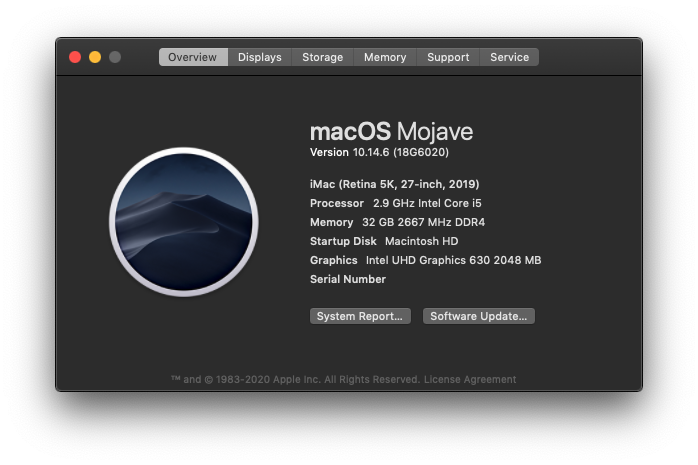
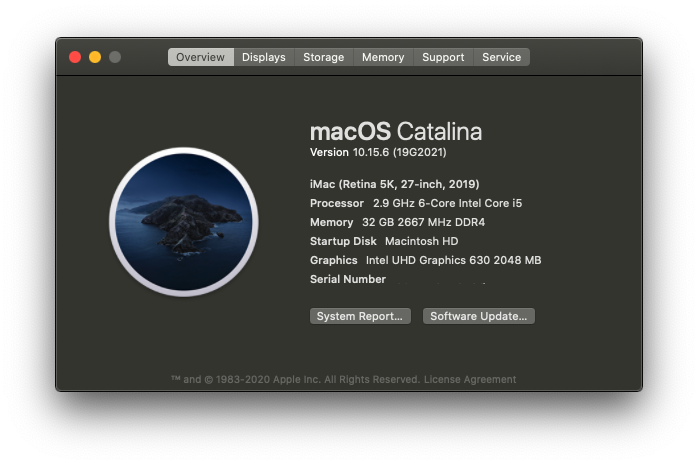
MISC - Upgrade to Catalina

diff --git a/README.md b/README.md
@@ -4,7 +4,7 @@
 
 ### SPECS
 
-+ OS: macOS Mojave 10.14.6 18G6020 x86_64 / (SMBIOS: iMac19,1) - **Support Catalina**
++ OS: macOS Catalina 10.15.6 19G2021 x86_64 / (SMBIOS: iMac19,1)
 + OpenCore: 0.6
 + CPU: Intel i5-9400 (6c6t) @ 2.90GHz
 + GPU: Intel UHD Graphics 630
@@ -34,13 +34,7 @@ My Wi-Fi card is BCM94360CS2, you need to by a NGFF card like this one. TOSHIBA 
 + Super IO Configuration -> Serial Port: Disabled
 + BOOT > CSM: Enabled
 
-### HDMI ISSUES(Catalina)
-
-+ If your hackintosh wake from sleep without signal, you need add `igfxonln=1` to your boot-args
-  ```bash
-  <key>boot-args</key>
-  <string>-v igfxonln=1 dart=0 keepsyms=1 slide=0 darkwake=0</string>
-  ```
+### ~~HDMI ISSUES - WhateverGreen Fix black screen on igfx since 10.15.5~~
 
 ### Buy Me A Coffee
 

diff --git a/README-ZH.md b/README-ZH.md
@@ -4,7 +4,7 @@
 
 ### 系统信息
 
-+ 操作系统版本: macOS Mojave 10.14.6 18G6020 x86_64 / (SMBIOS: iMac19,1) - **支持Catalina**
++ 操作系统版本: macOS Catalina 10.15.6 19G2021 x86_64 / (SMBIOS: iMac19,1)
 + OC版本: 0.6
 + CPU: Intel i5-9400 (6c6t) @ 2.90GHz
 + GPU: Intel UHD Graphics 630
@@ -34,13 +34,7 @@
 + Super IO Configuration -> Serial Port: Disabled
 + BOOT > CSM: Enabled
 
-### HMDI问题(Catalina)
-
-+ 睡眠唤醒之后如果没有信号的话，可以把 `igfxonln=1` 放到 boot-args试试。
-  ```bash
-  <key>boot-args</key>
-  <string>-v igfxonln=1 dart=0 keepsyms=1 slide=0 darkwake=0</string>
-  ```
+### ~~HMDI问题(Catalina) WhateverGreen Fix black screen on igfx since 10.15.5~~
 
 ### 请我吃个冰棒
 

diff --git a/Changelog.md b/Changelog.md
@@ -1,3 +1,6 @@
++ Tue Aug 18 09:25:52 CST 2020
+Update macOS to 10.15.6
+
 + Tue Aug  4 20:17:55 CST 2020
 Update opencore to 0.6
 
